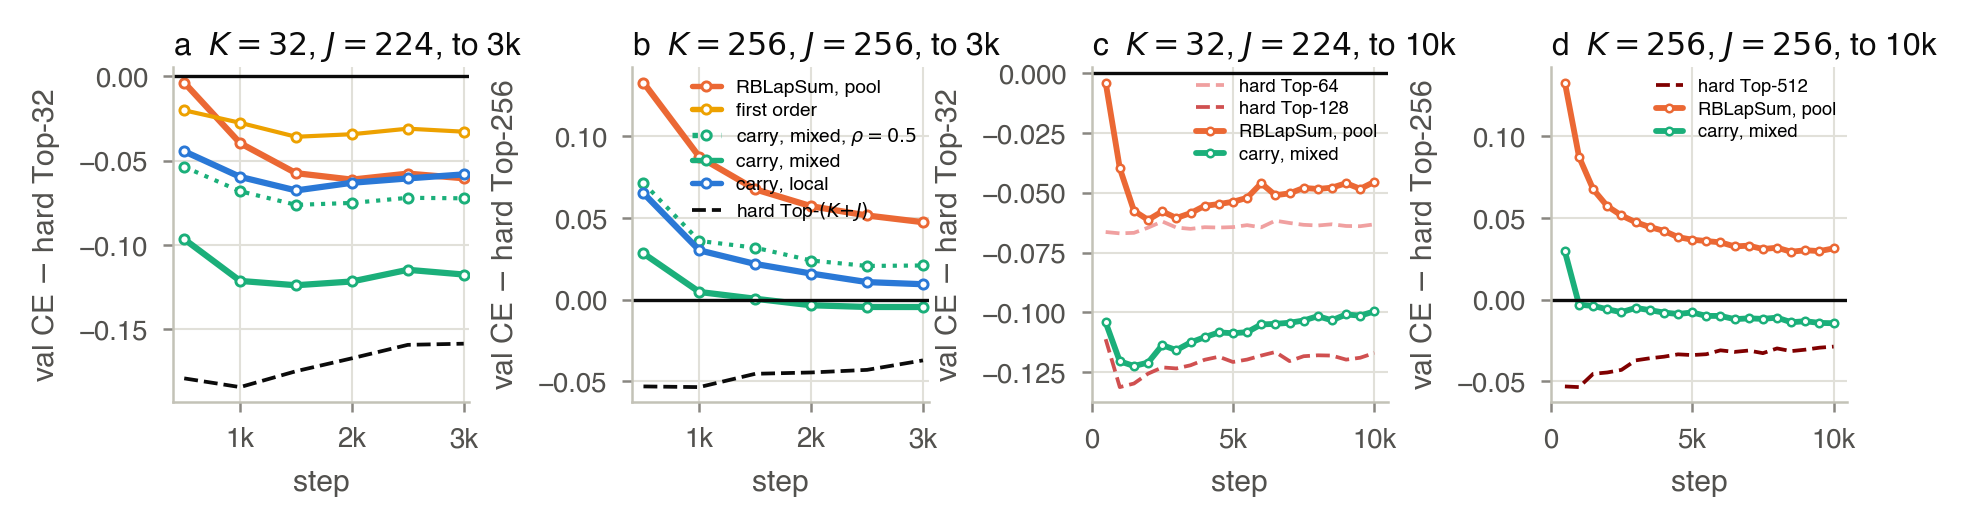
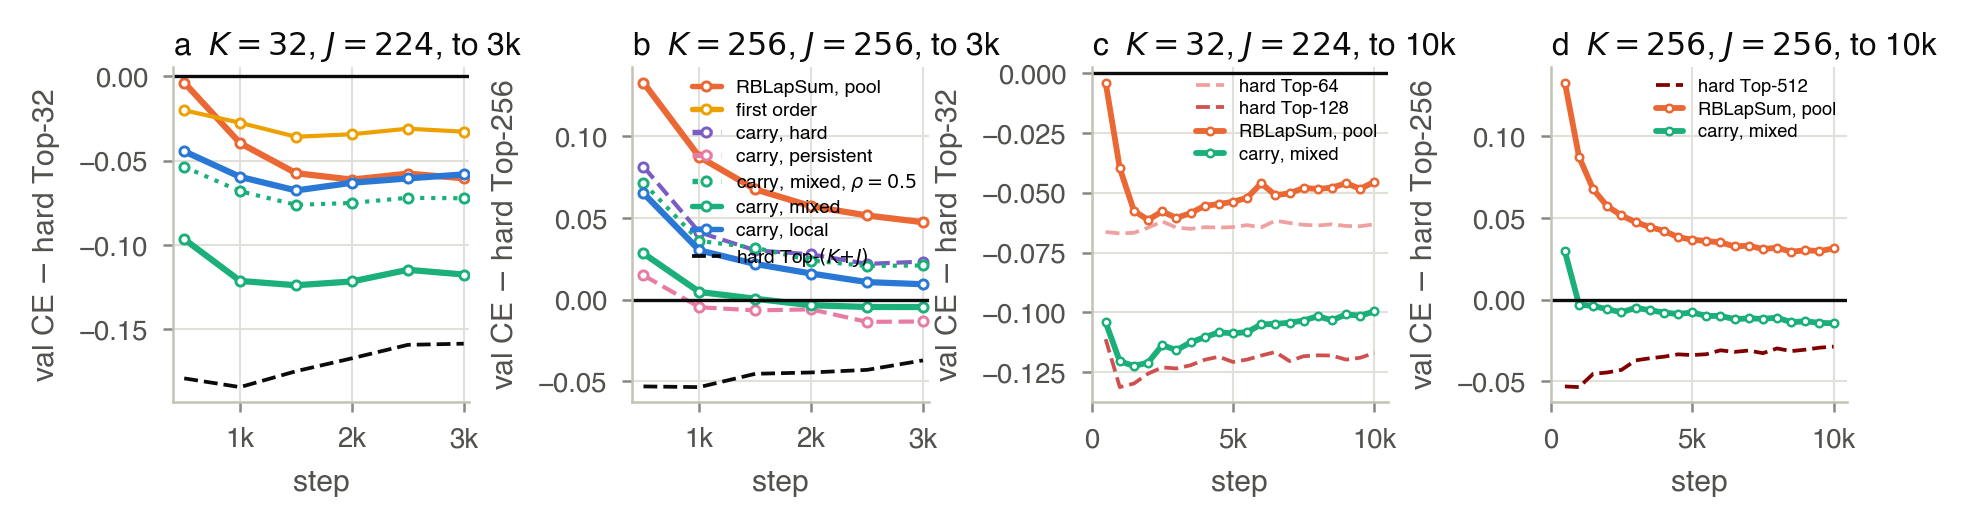
carry note: driver ablations, (128,384); carry_persistent diagonal config

diff --git a/docs/carry-surrogate.tex b/docs/carry-surrogate.tex
@@ -101,15 +101,15 @@ with the schedules untouched, two cells continued to 10k.  At step 3000 the grid
 
 \textbf{At initialization} (Fig.~\ref{fig:mech}a,b) the surrogate's share of the gradient energy at the gates,
 \(\sigma=\lVert S^\top\hat g\rVert^2/\lVert m\odot g\rVert^2\), is \(0.70\) for \code{pool}, \(0.74\) for mixed,
-\(0.31\) for local and \(0.24\) for first order at \(K=32\) (\(0.30\), \(0.20\), \(0.09\), \(0.09\) at \(K=256\)): mixed
-injects as much support signal as the unmodified backward, as a sum.
+\(0.31\) for local and \(0.24\) for first order at \(K=32\): mixed injects as much support signal as the unmodified
+backward, as a sum.
 
 \textbf{Runs of the carried code} (Fig.~\ref{fig:mech}c,d; 16 validation sequences, hard forward).  The carry
 persists for a subset of the code: in the trained hard Top-32 model every gate evicts
 \(30\)--\(54\%\) of the support it receives, an entered feature is still there one gate later with probability
 \(0.51\) and two later \(0.34\), \(12\%\) of the final code was carried from gate 0 and \(54\%\) entered at the last
 gate (hard Top-256: \(0.57\), \(0.41\), \(17\%\), \(34\%\)); an entry at gate 0 is read by \(2.7\)--\(3.1\) blocks on
-average, against 8 under the persistent model and 1 under the local one.  The \code{pool} surrogate trains the
+average (persistent model: 8, local: 1).  The \code{pool} surrogate trains the
 model \emph{out of} the carry: at \((32,224)\) turnover \(63\%\) per gate at step 4000 and \(70\%\) at 20k, survival
 \(0.21\to0.16\), \(77\%\) of the final code entering at the last gate -- the stream stack's re-selection at every
 block.  Every carry-scope model keeps
@@ -130,9 +130,12 @@ baselines also have the post-norm, worth about \(0.007\) in the stream grid).  C
 \(+0.031\) and hard Top-512 at \(-0.034\), \(-0.029\).  On the diagonal \(J=K\), the stream grid's winning configuration, the mixed scope is below hard Top-\(K\)
 from step 500 on and ends at \(-0.047\) at \((64,64)\) (\code{pool} \(-0.005\), first order \(-0.003\); hard Top-128
 \(-0.059\)) and \(-0.006\) at \((128,128)\) (\code{pool} \(+0.025\), first order \(+0.026\); hard Top-256 \(-0.035\)).
-With the measured survival \(\rho=0.5\) in the persistent chain the mixed scope gives \(-0.072\) at \((32,224)\) and
-\(+0.021\) at \((256,256)\), less than at \(\rho=1\) at both \(K\): the entry term works best evaluated as if the
-candidate were carried to the end.  No carry-scope run's gradient norm exceeded 1 (\code{pool} at
+At \((128,384)\) mixed ends at \(-0.025\) (\code{pool} \(+0.016\), first order \(+0.021\)).  The drivers
+at \((256,256)\): persistent on both sides \(-0.013\), mixed \(-0.005\), local \(+0.009\), hard on both sides
+\(+0.023\), mixed with \(\rho=0.5\) \(+0.021\) (\(-0.072\) against mixed's \(-0.118\) at \((32,224)\)); \PH{cp32}.  The
+two sides of the boundary want one driver (the exchange term compares flip gains across the pool, and a driver that
+follows the run on one side and one read on the other biases it), and the entry term works best as if the candidate
+were carried to the end.  No carry-scope run's gradient norm exceeded 1 (\code{pool} at
 \((32,224)\): four spikes, to 3.3); their feature-usage entropy is the hard model's (\(0.79\), \(0.94\); hard
 \(0.73\), \(0.93\); \code{pool} \(0.59\), \(0.89\)).
 
@@ -165,6 +168,6 @@ a sum of single-flip terms instead of a product.  The unmodified backward was no
 the carry was worth nothing to them; every carry-scope model has the hard model's survival and turnover, so the
 support signal and the carry's persistence add instead of competing.  \textbf{Scope:} one seed, one family (8 layers, \(N=1536\), \(T=2\), no output norm), 3000-step screens and two 10k
 continuations against step-matched 20k baselines; untested: \(T=1\), the post-norm
-arm, the hard and persistent drivers alone \PH{}, more than eight blocks.
+arm, more than eight blocks.
 
 \end{document}
